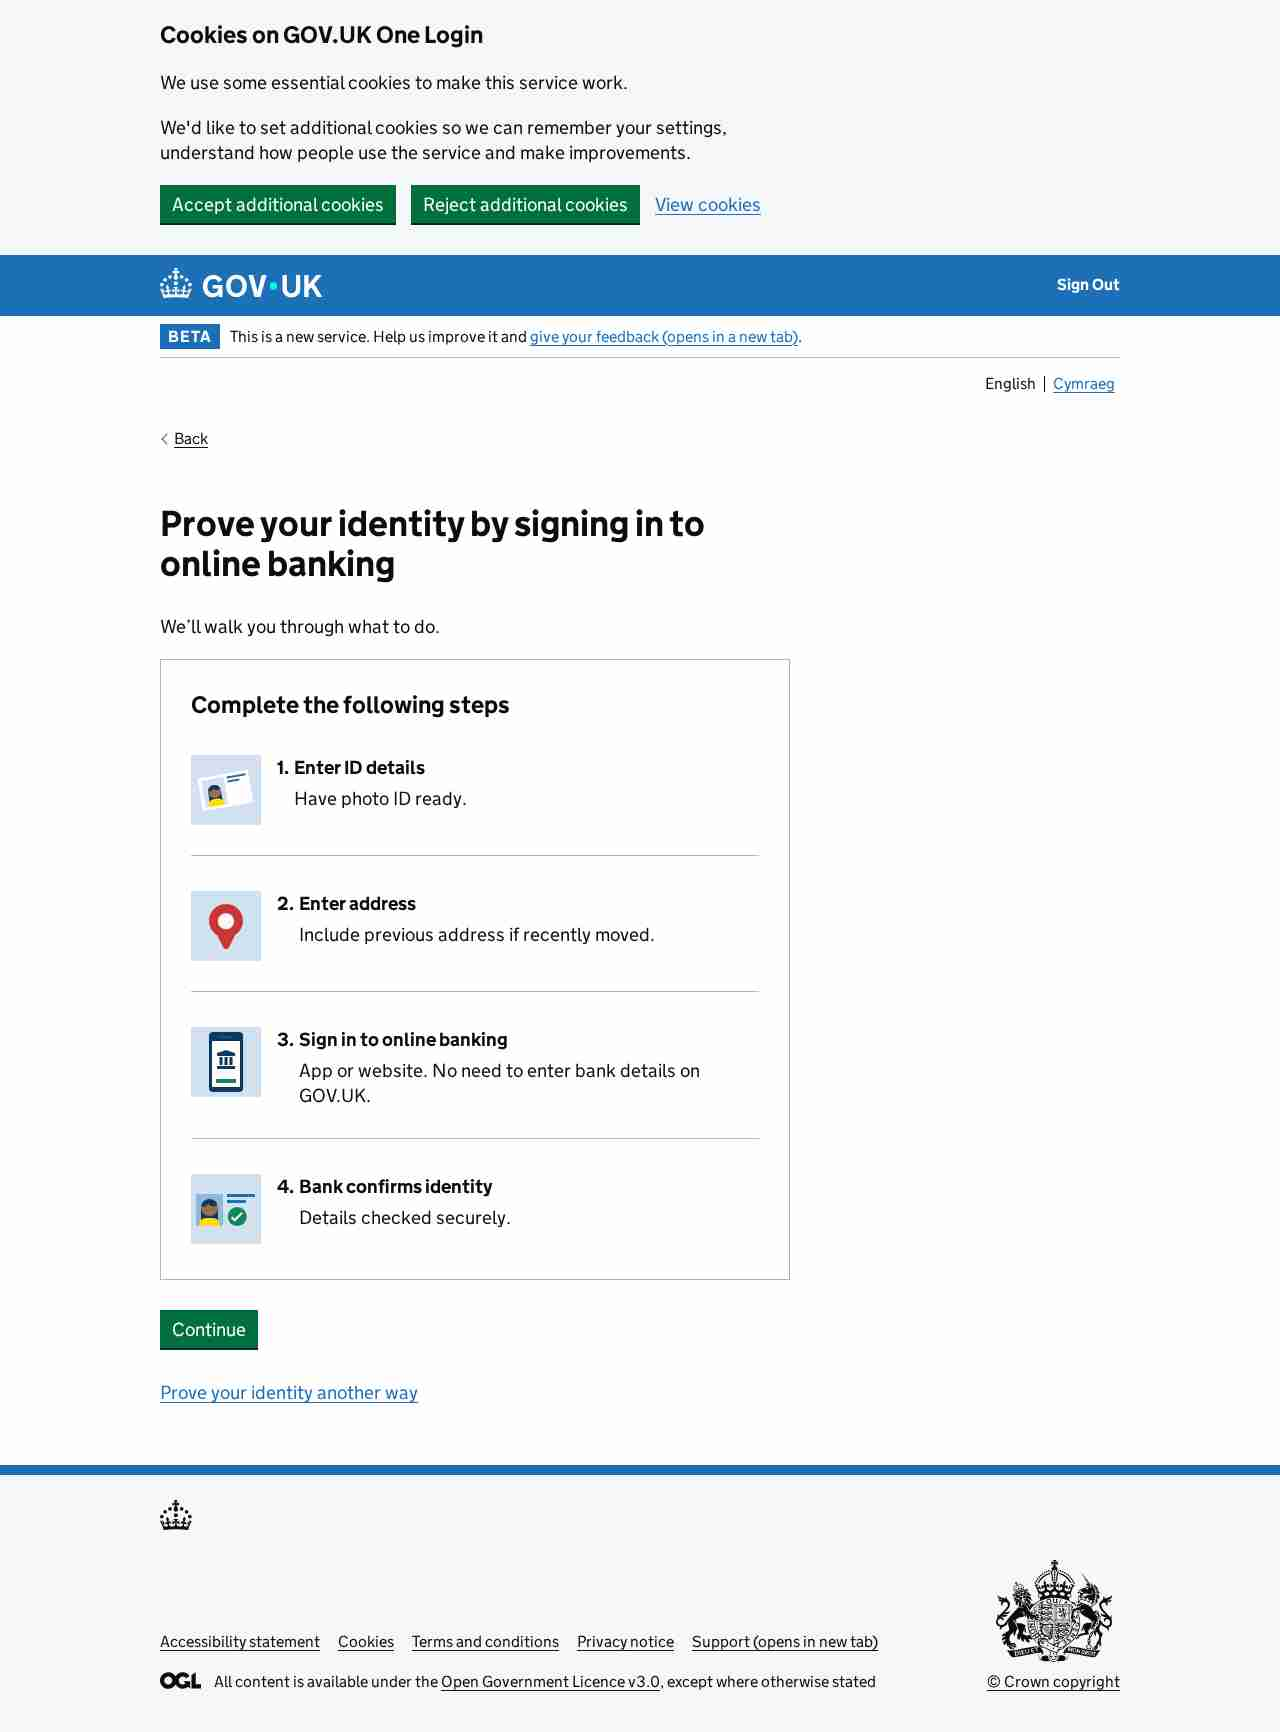
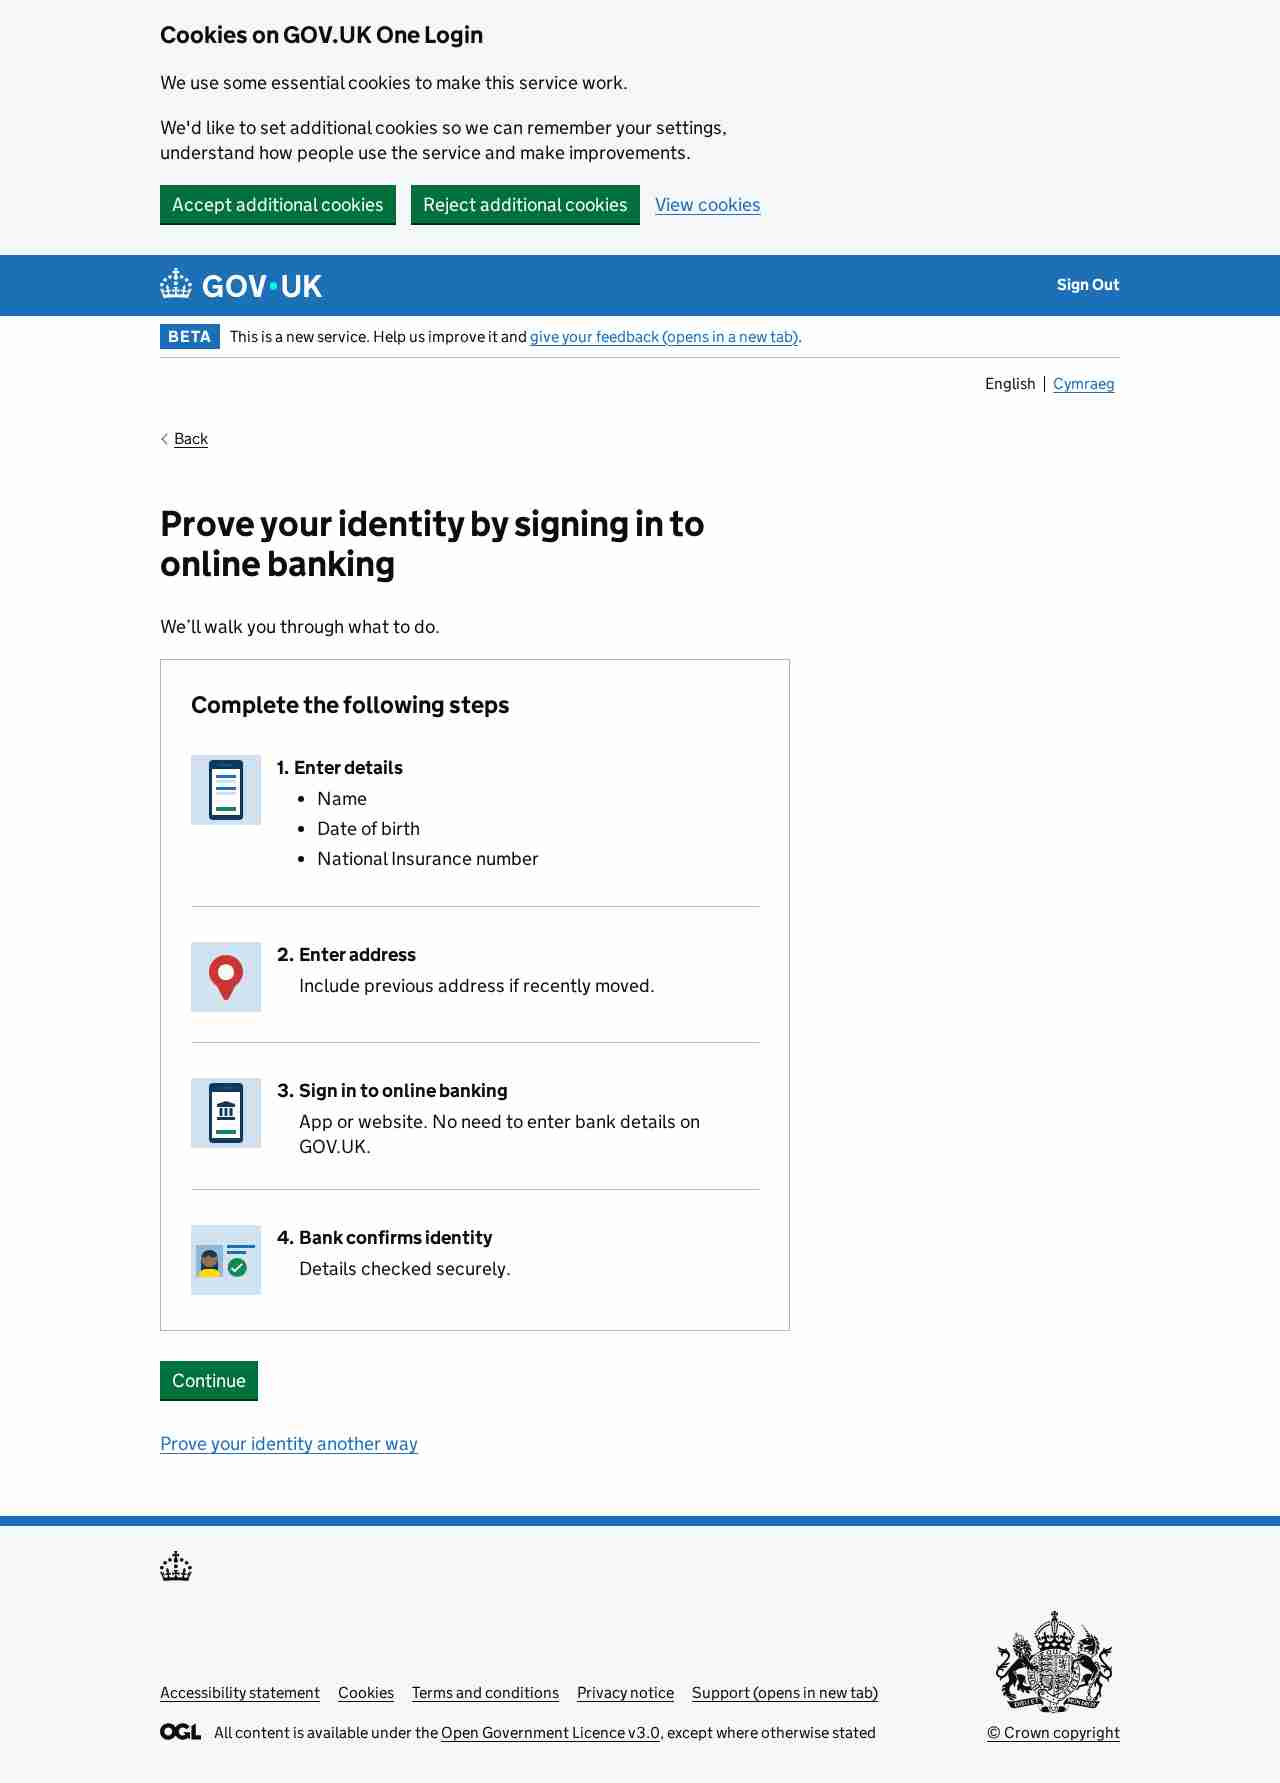
PYIC-9058: Switch new "noPhotoId" context flag to match existing "photoId" flag

Changed region(s): [[0.0, 0.0, 1.0, 0.9042], [0.125, 0.9353, 0.6875, 0.9977], [0.7812, 0.9042, 0.875, 0.9977]]

diff --git a/locales/check-translations.ts b/locales/check-translations.ts
@@ -72,9 +72,9 @@ const UNTRANSLATED_WHITELIST = new Set([
   "pages.proveIdentityOnlineBanking.content.htmlLink",
   "pages.proveIdentityOnlineBanking.content.stepCardHeader",
   "pages.proveIdentityOnlineBanking.content.stepCardSectionHeader1",
-  "pages.proveIdentityOnlineBanking.content.stepCardSectionHeader1NoPhotoId",
+  "pages.proveIdentityOnlineBanking.content.stepCardSectionHeader1PhotoId",
   "pages.proveIdentityOnlineBanking.content.stepCardSectionDescription1",
-  "pages.proveIdentityOnlineBanking.content.stepCardSectionDescription1NoPhotoId",
+  "pages.proveIdentityOnlineBanking.content.stepCardSectionDescription1PhotoId",
   "pages.proveIdentityOnlineBanking.content.stepCardSectionHeader2",
   "pages.proveIdentityOnlineBanking.content.stepCardSectionDescription2",
   "pages.proveIdentityOnlineBanking.content.stepCardSectionHeader3",

diff --git a/src/test-utils/pages-and-contexts.ts b/src/test-utils/pages-and-contexts.ts
@@ -95,7 +95,7 @@ export const pagesAndContexts: PagesAndContexts = {
   ],
   "prove-identity-online": [{ photoId: { photoId: true } }, NO_CONTEXT_VARIANT],
   "prove-identity-online-banking": [
-    { noPhotoId: { noPhotoId: true } },
+    { photoId: { photoId: true } },
     NO_CONTEXT_VARIANT,
   ],
   "pyi-another-way": [],

diff --git a/src/types/page-contexts.ts b/src/types/page-contexts.ts
@@ -16,7 +16,7 @@ type PageContextMap = {
   "prove-identity-no-other-photo-id": { invalidDoc: string };
   "prove-identity-no-photo-id": { ninoOnly: boolean };
   "prove-identity-online": { photoId: boolean };
-  "prove-identity-online-banking": { noPhotoId: boolean };
+  "prove-identity-online-banking": { photoId: boolean };
   "pyi-no-match": { reason: string };
   "pyi-technical": { isUnrecoverable: boolean };
   "pyi-triage-desktop-download-app": {